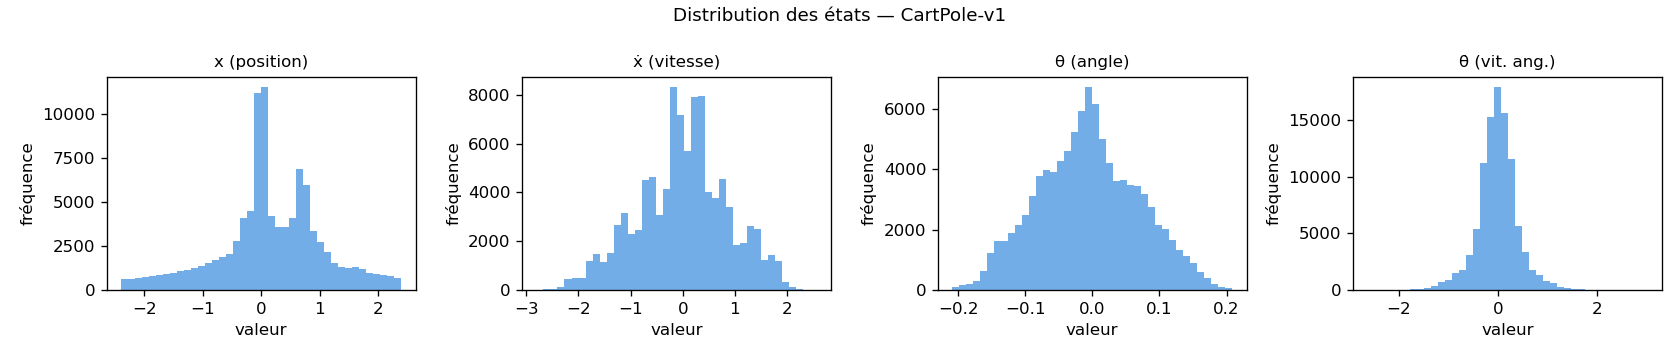
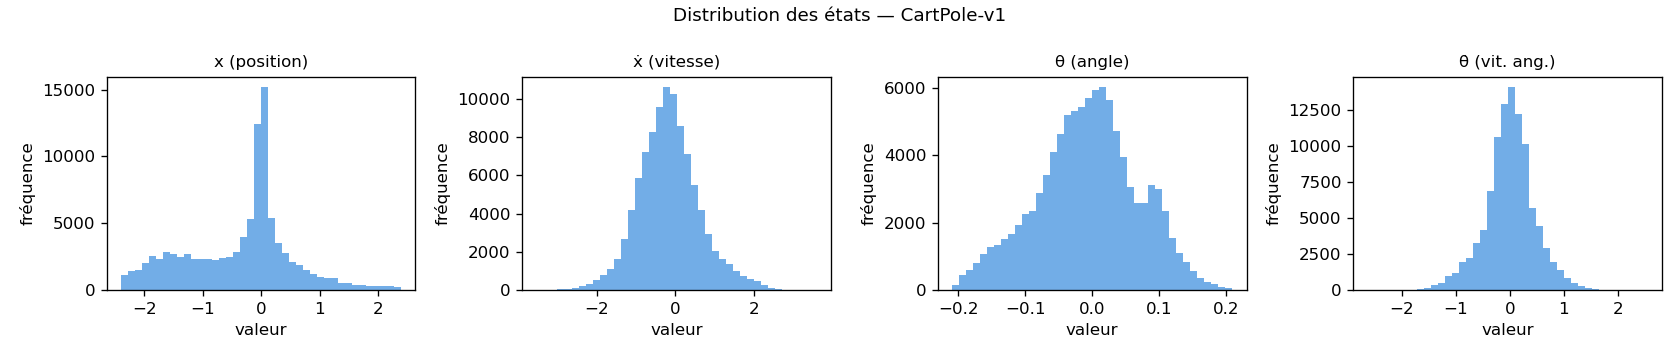
correction of the collect datamixed policy

diff --git a/collect_data_mixed_policy.py b/collect_data_mixed_policy.py
@@ -70,6 +70,8 @@ def collect_data_dqn(n_steps=100_000, seed=0):
     current_reward = 0.0
     random.seed(seed)
     torch.manual_seed(seed)
+    np.random.seed(seed)
+    torch.cuda.manual_seed_all(seed)
 
     # DQN setup
     q_net = QNetwork()
@@ -110,12 +112,13 @@ def collect_data_dqn(n_steps=100_000, seed=0):
         # Store for DQN training
         buffer.push(obs, action, reward, next_obs, done)
 
-        obs = next_obs if not done else env.reset()[0]
         if done:
             episode += 1
             obs, _ = env.reset(seed=seed + episode)
             episode_rewards.append(current_reward)
             current_reward = 0.0
+        else:
+            obs = next_obs
 
         # Train DQN
         if len(buffer) >= batch_size:
@@ -138,7 +141,7 @@ def collect_data_dqn(n_steps=100_000, seed=0):
             optimizer.step()
 
         # update target
-        if step % target_update == 0:
+        if step > 0 and step % target_update == 0:
             target_net.load_state_dict(q_net.state_dict())
 
         # epsilon decay
@@ -150,7 +153,10 @@ def collect_data_dqn(n_steps=100_000, seed=0):
     A = np.asarray(actions, dtype=np.int64)
     SN = np.asarray(next_states, dtype=np.float32)
 
-    print(f"Reward moyen (sur {len(episode_rewards)} épisodes) : {np.mean(episode_rewards):.2f}")
+    if len(episode_rewards) > 0:
+        print(f"Reward moyen (sur {len(episode_rewards)} épisodes) : {np.mean(episode_rewards):.2f}")
+    else:
+        print("Aucun épisode terminé pendant la collecte.")
 
     print(f"Transitions collectées : {len(S)}")
     evaluate_policy(q_net, n_episodes=10)
@@ -183,6 +189,7 @@ def evaluate_policy(q_net, n_episodes=10, seed=123):
         scores.append(total_reward)
     env.close()
     print(f"Évaluation greedy : mean={np.mean(scores):.2f}  std={np.std(scores):.2f}")
+    q_net.train()  # revenir en mode entraînement après évaluation
 
 
 # ─────────────────────────────────────────────
@@ -320,8 +327,6 @@ if __name__ == "__main__":
     print("\nFichier sauvegardé : cartpole_data_mixed_policy.npz")
 
     #print("\nFichiers sauvegardés : s_train.npy, a_train.npy, sn_train.npy, ...")
-    print(f"Normalisation : mean={mean}, std={std}")
-
     print(f"Normalisation : mean={mean.flatten()}, std={std.flatten()}")
 
     # Rechargement dans un autre script :